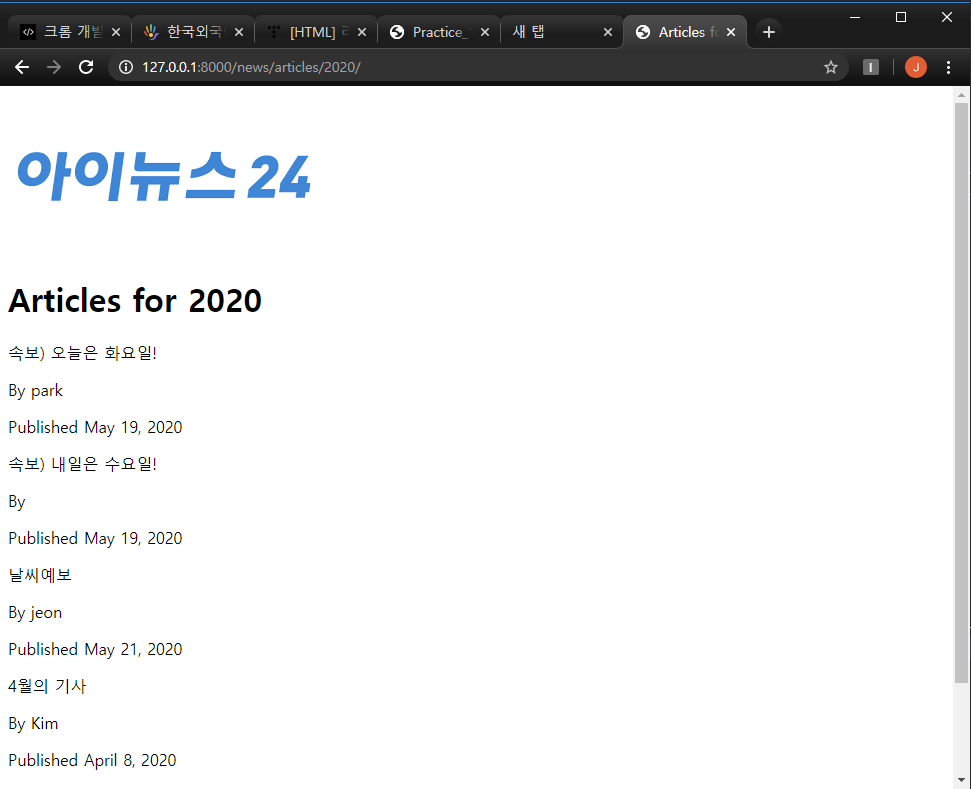
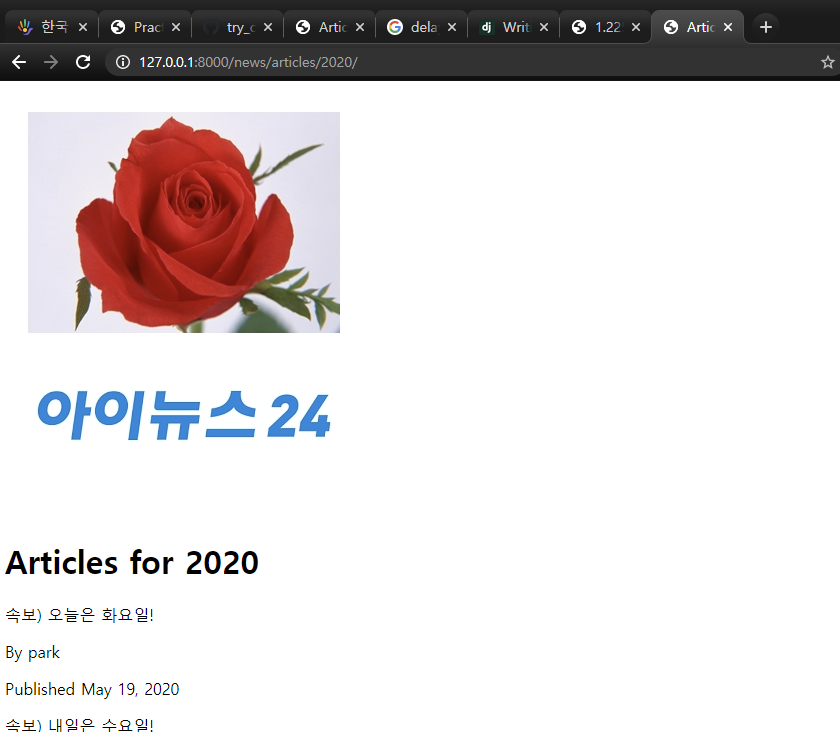
사진수정

diff --git a/mysite/news/templates/base.html b/mysite/news/templates/base.html
@@ -4,7 +4,7 @@
     <title>{% block title %}{% endblock %}</title>
 </head>
 <body>
-    <img src="{% static "news_img.png" %}" alt="Logo">
+    <img src="{% static "news_img.jpg" %}" alt="Logo">
     {% block content %}{% endblock %}
 </body>
 </html>
